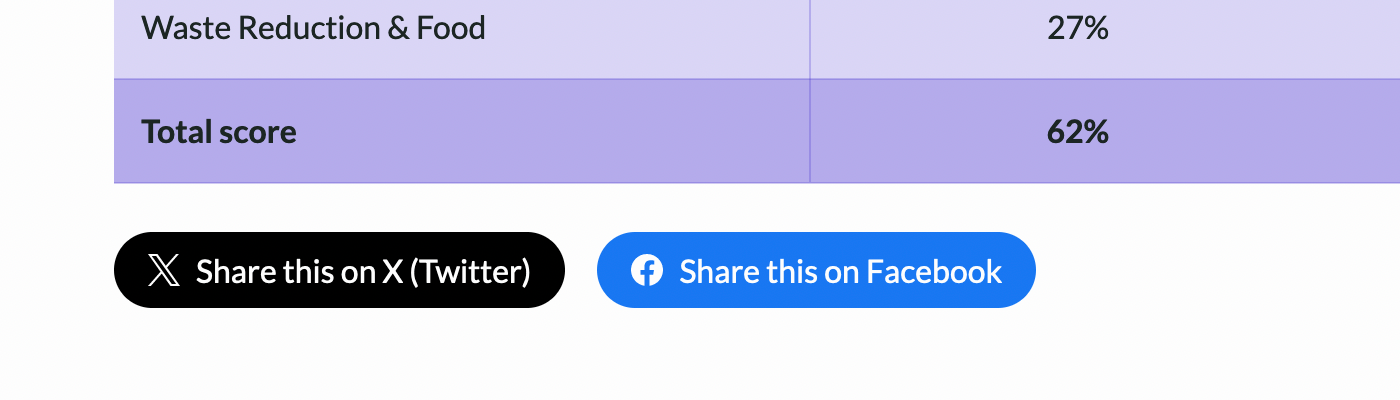
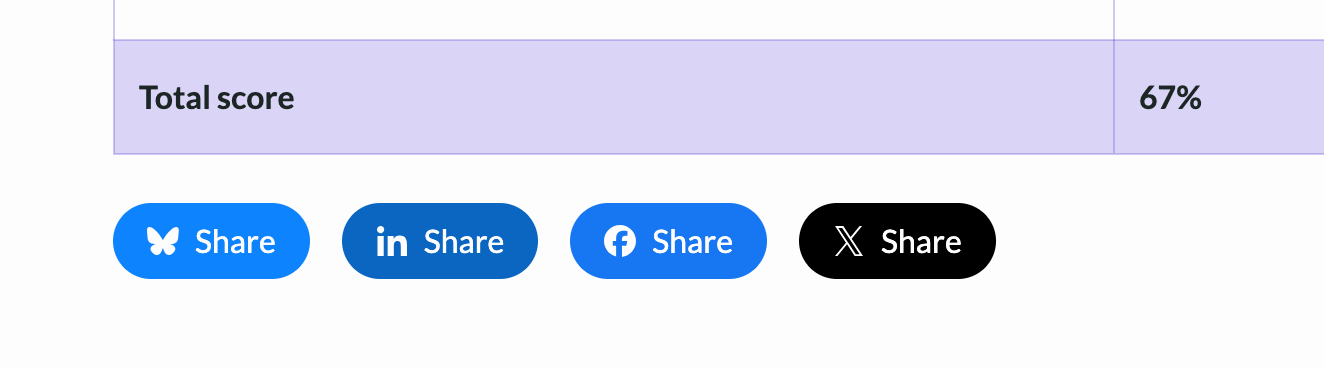
[Scorecards] Update council page wording for 2025
And add Bluesky and LinkedIn social sharing buttons below Scorecard.

diff --git a/scoring/templates/scoring/council.html b/scoring/templates/scoring/council.html
@@ -95,7 +95,7 @@
         <div class="row">
             <div class="col-lg-5 mb-5 mb-lg-0">
               <h2 class="h3 mb-4">About the Scorecards</h2>
-              <p>Climate Emergency UK assessed all UK councils on the actions they've taken towards net zero. The Scorecard assessment consists of 91 questions or less, depending on council type, across 7 different sections, created in consultation with over 90 different organisations and individuals. Each council was marked against these criteria and given a right to reply before the scores underwent a final audit. This work was completed between January and August 2023.  Unless otherwise stated, council climate action from 1st January 2019 up until 31st March 2023 was assessed.</p>
+              <p>Climate Emergency UK assessed all UK councils on the actions they’ve taken towards net zero. The Scorecard assessment consists of 93 questions across 7 different sections, created in consultation with over 90 different organisations and individuals. Each council was marked against these criteria and given a right to reply before the scores underwent a final audit. This work was completed between July 2024 and March 2025. Unless otherwise stated, council climate action from 1st January 2020 up until 31st October 2024 was assessed.</p>
 
               {% if original_plan_score %}
               <p>You can <a href="{% url 'scoring2022:council' slug=council.slug %}">check how this council scored in the 2021 Plan Scorecards</a> (different questions to the Action Scorecards).</p>
@@ -125,7 +125,7 @@
                         </h3>
                         <div id="definition2" class="accordion-collapse collapse" aria-labelledby="definitionHeading2" data-bs-parent="#definitionsAccordion">
                             <div class="accordion-body">
-                                <p>The overall section score for a council is given in the table below. The final score is created from adding up the overall section scores and applying the section weighting. For example, receiving a 50% score in Collaboration &amp; Engagement equals 5% of a council’s overall score. This is because Collaboration &amp; Engagement is worth 10% of a council's overall score.</p>
+                                <p>The overall section score for a council is given in the table below. The final score is created from adding up the overall section scores and applying the section weighting. For example, receiving a 50% score in Collaboration &amp; Engagement equals 5% of a council’s overall score. This is because Collaboration &amp; Engagement is worth 10% of a council’s overall score.</p>
                                 <p class="mb-0"><a href="{% url 'year_scoring:methodology' plan_year %}#section-weightings">Click here for further information on Section Weighting.</a></p>
                             </div>
                         </div>
@@ -142,15 +142,8 @@
     <h3>Action Scorecard: {{ council.short_name }}</h3>
     <div class="row">
         <div class="col-md-6">
-            <p>Councils have been scored across seven sections, each covering the important actions that councils can be taking towards net zero. The marks within these sections add up to make up the council's overall score. Here you can see where a council performs well and not so well in each section — and compare it to other councils at this granular level.</p>
+            <p>Councils have been scored across seven sections, each covering the important actions that councils can be taking towards net zero. The marks within these sections add up to make up the council’s overall score. Here you can see where a council performs well and not so well in each section — and compare it to other councils at this granular level.</p>
         </div>
-      {% if council.slug == "isles-of-scilly" %}
-        <div class="mt-3 mt-md-0 col-md-5 offset-md-1">
-            <div class="alert alert-danger">
-                <p class="mb-0 my-n1">Due to technical issues, Isles of Scilly was marked during November 2023 to April 2024. For the next Action Scorecards, Isles of Scilly will be marked alongside all other councils.</p>
-            </div>
-        </div>
-      {% endif %}
     </div>
 
     <div class="row my-4 my-lg-5">
@@ -512,14 +505,22 @@
         </tbody>
 
     </table>
-    <div class="d-flex gap-3">
-        <a href="https://twitter.com/intent/tweet?url={{ request.build_absolute_uri|urlencode }}&amp;text={{ twitter_tweet_text|urlencode }}" class="btn btn-twitter rounded-pill px-3 d-flex align-items-center gap-2">
-            {% include "scoring/icons/x.html" %}
-            Share this on X (Twitter)
+    <div class="d-flex gap-3 flex-wrap">
+        <a href="https://bsky.app/intent/compose?text={{ request.build_absolute_uri|urlencode }}" target="_blank" class="btn btn-bluesky rounded-pill px-3 d-flex align-items-center gap-2" title="Share on Bluesky">
+            {% include "scoring/icons/bluesky.html" %}
+            Share <span class="visually-hidden">on Bluesky</span>
         </a>
-        <a href="https://www.facebook.com/sharer.php?u={{ request.build_absolute_uri|urlencode }}" class="btn btn-facebook rounded-pill px-3 d-flex align-items-center gap-2">
+        <a href="https://www.linkedin.com/sharing/share-offsite/?url={{ request.build_absolute_uri|urlencode }}" target="_blank" class="btn btn-linkedin rounded-pill px-3 d-flex align-items-center gap-2" title="Share on LinkedIn">
+            {% include "scoring/icons/linkedin.html" %}
+            Share <span class="visually-hidden">on LinkedIn</span>
+        </a>
+        <a href="https://www.facebook.com/sharer.php?u={{ request.build_absolute_uri|urlencode }}" target="_blank" class="btn btn-facebook rounded-pill px-3 d-flex align-items-center gap-2" title="Share on Facebook">
             {% include "scoring/icons/facebook.html" %}
-            Share this on Facebook
+            Share <span class="visually-hidden">on Facebook</span>
+        </a>
+        <a href="https://twitter.com/intent/tweet?url={{ request.build_absolute_uri|urlencode }}&amp;text={{ twitter_tweet_text|urlencode }}" target="_blank" class="btn btn-twitter rounded-pill px-3 d-flex align-items-center gap-2" title="Share on X (Twitter)">
+            {% include "scoring/icons/x.html" %}
+            Share <span class="visually-hidden">on X (Twitter)</span>
         </a>
     </div>
 </div>
@@ -531,11 +532,11 @@
                 <h2 class="h3 mb-3">No Scorecard available</h2>
                 <p>
                 {% if new_council %}
-                  This council was recently created when the Scorecards were marked so was not included.
+                  This {{ council.council_or_combined_authority }} was recently created when the Scorecards were marked so was not included. This {{ council.council_or_combined_authority }} will be assessed in future Scorecard editions.
                 {% elif old_council %}
-                  This council had been disbanded when the Scorecards were marked so was not included.
+                  This {{ council.council_or_combined_authority }} had been disbanded when the Scorecards were marked so was not included.
                 {% else %}
-                  We do not currently have a Scorecard for this council.
+                  We do not currently have a Scorecard for this {{ council.council_or_combined_authority }}.
                 {% endif %}
                 </p>
             </div>

diff --git a/scoring/templates/scoring/includes/advanced-filter.html b/scoring/templates/scoring/includes/advanced-filter.html
@@ -43,6 +43,7 @@
             {% endfor %}
         </select>
     </div>
+  {% endif %}
 
     <div id="filterTotalPopulation" class="d-flex flex-column justify-content-between">
         <label for="population_select" class="fs-7 mb-2">Total population</label>
